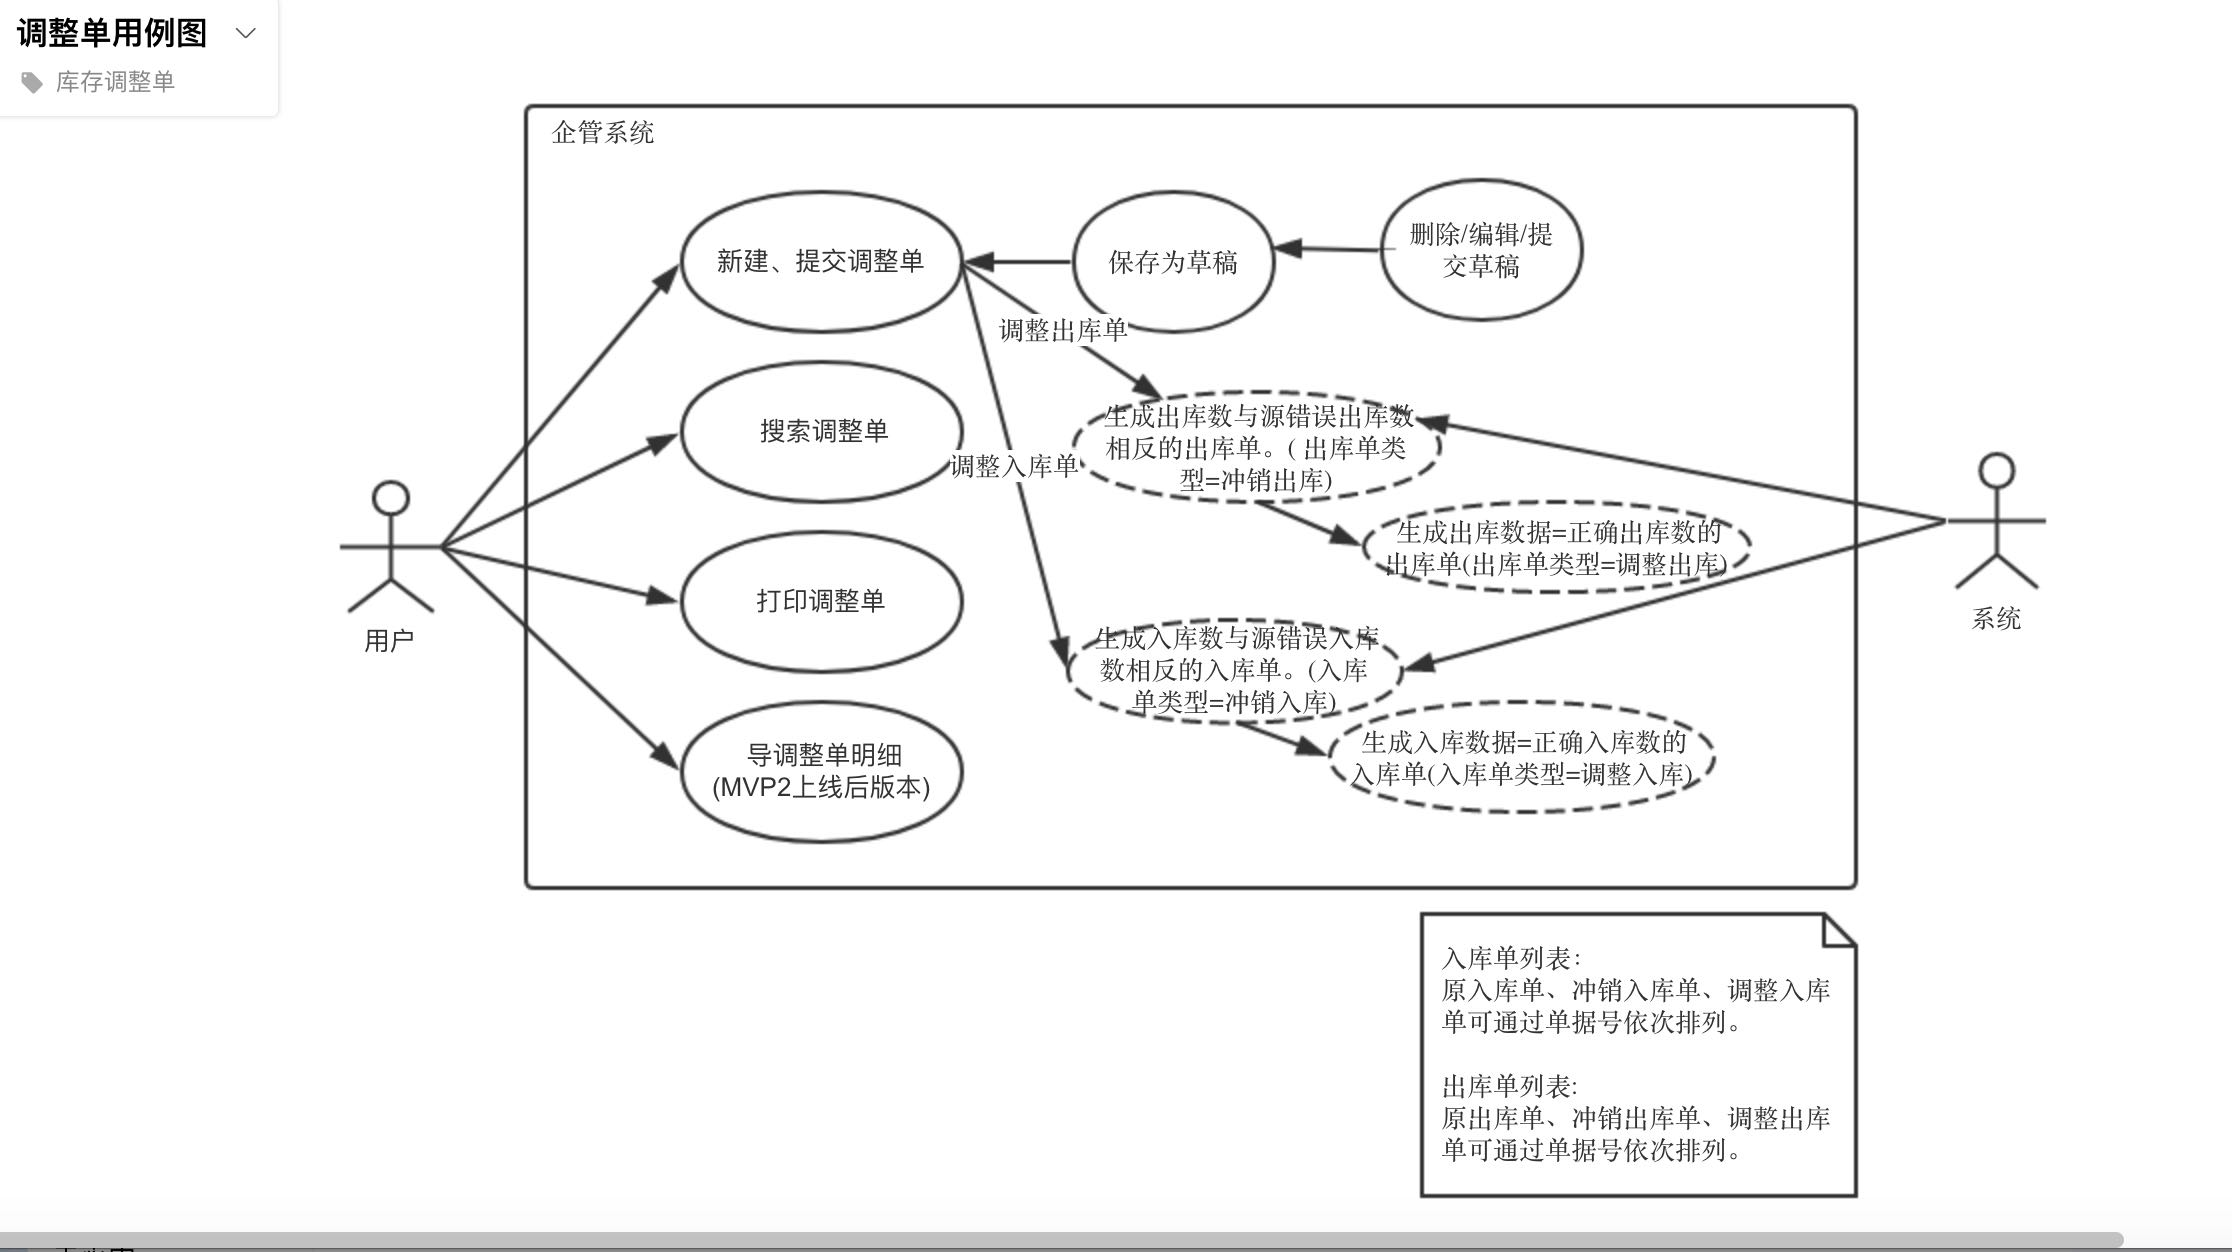
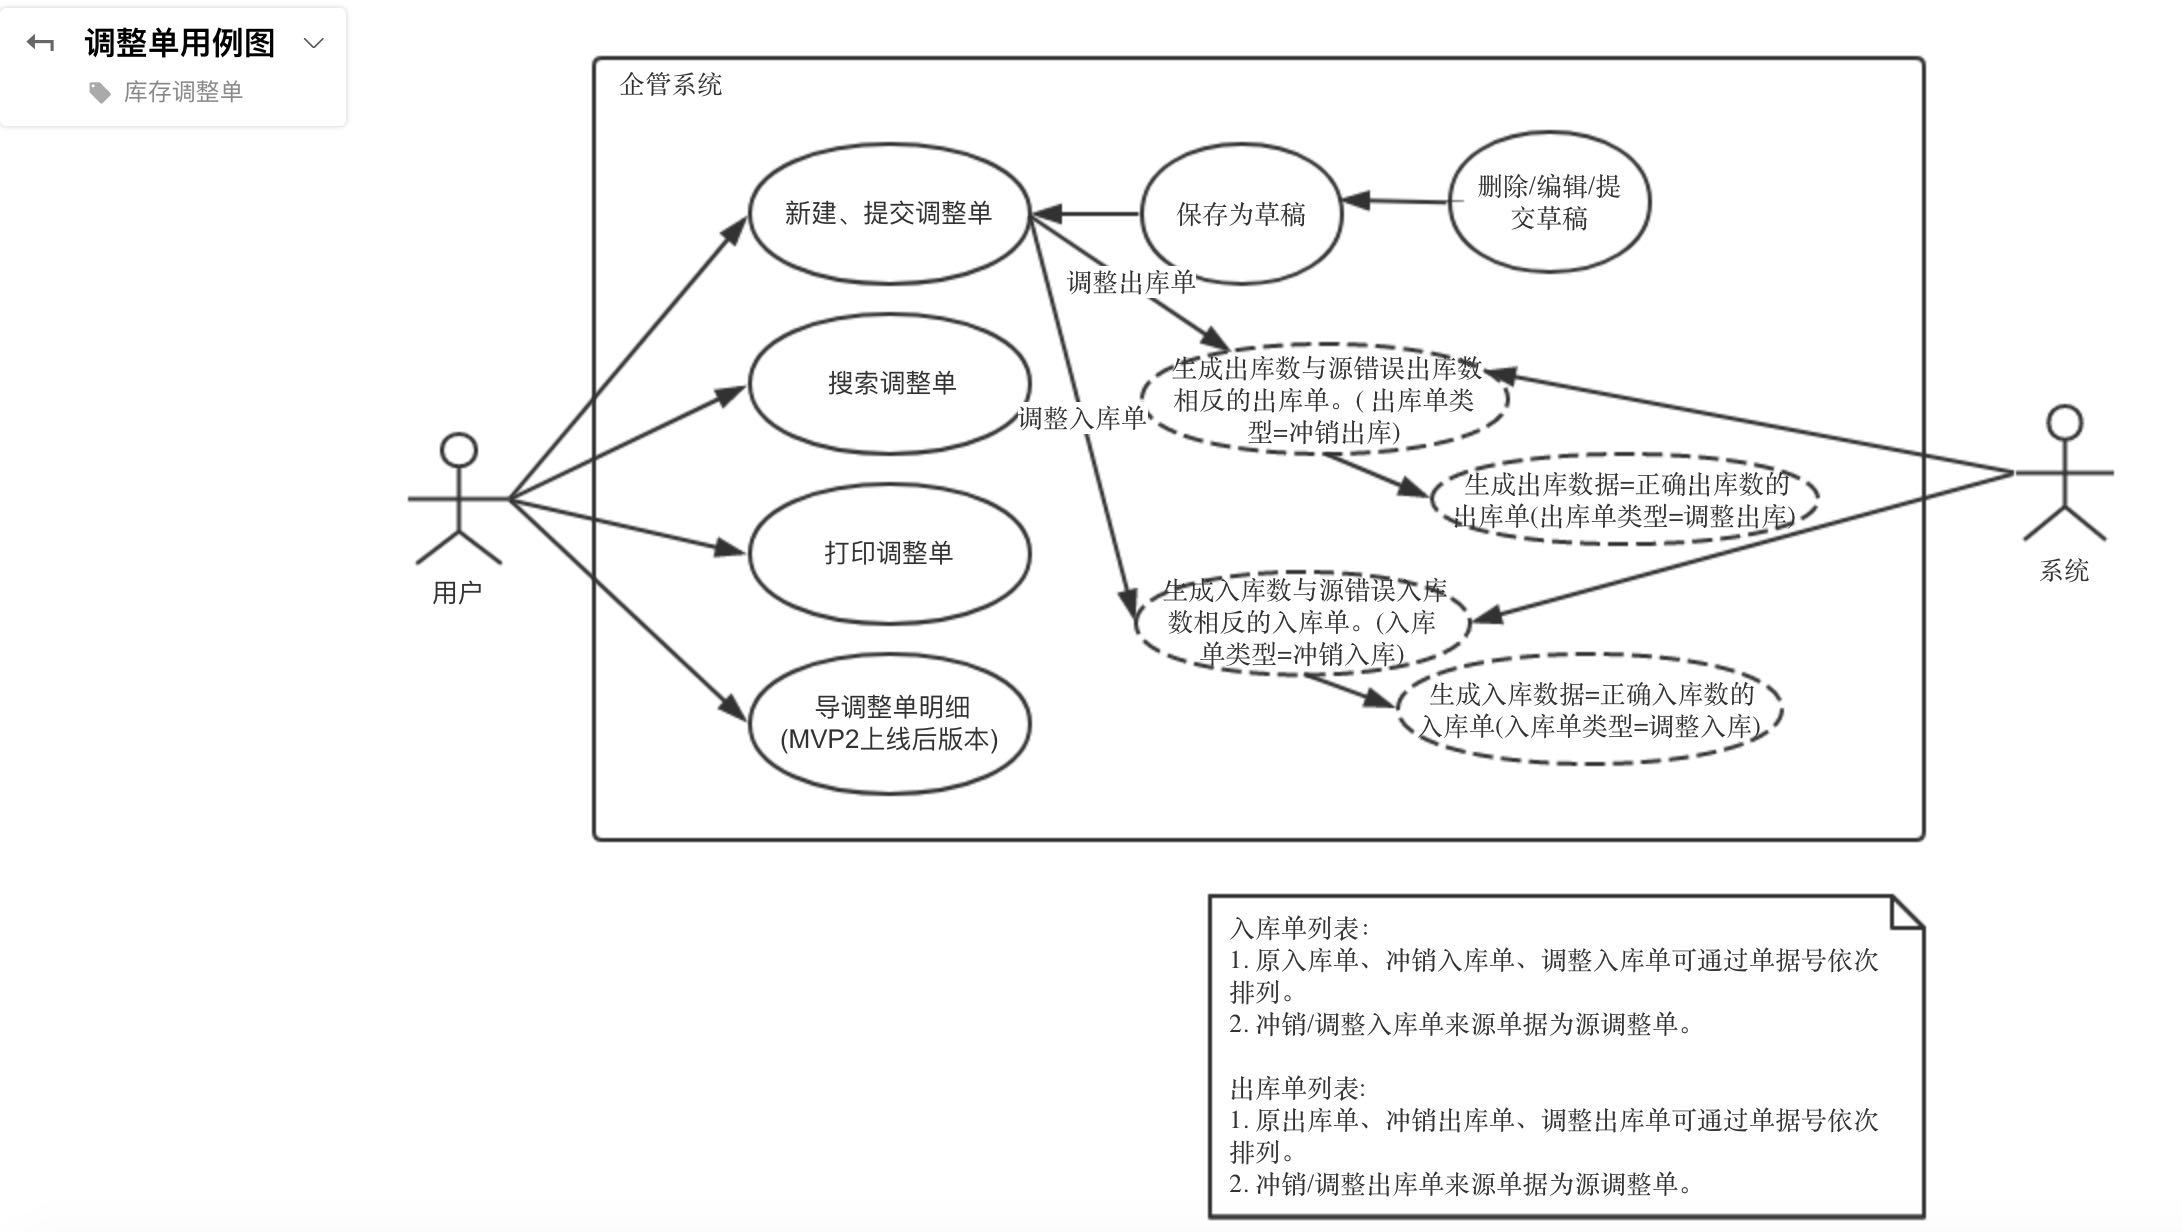
1

diff --git a/files/库存调整/data.js b/files/库存调整/data.js
@@ -2,6 +2,6 @@
 (function() {
     var _ = function() { var r={},a=arguments; for(var i=0; i<a.length; i+=2) r[a[i]]=a[i+1]; return r; }
     var _creator = function() { return _(b,c,d,e,f,g,h,g,i,[j,k,l,m,n,o],p,_(q,r,s,t,u,v,w,_(),x,_(y,z,A,B,C,_(D,E,F,G),H,null,I,B,J,B,K,L,M,null,N,O,P,Q,R,S,T,O),U,_(),V,_(),W,_(X,[_(Y,Z,ba,bb,bc,bd,s,be,bf,be,bg,bh,x,_(bi,bj,bk,_(bl,bm,bn,bo),R,bp,bq,br,y,bs,bt,_(bu,bv,bw,bx)),U,_(),by,_(),X,[_(Y,bz,ba,bA,bc,null,bB,bh,s,bC,bf,bD,bg,bh,x,_(bi,bj,bk,_(bl,bm,bn,bo),R,bp,bq,br,y,bs,bt,_(bu,bv,bw,bx)),U,_(),by,_())],bE,g),_(Y,bF,ba,bG,bc,bd,s,be,bf,be,bg,bh,x,_(bi,bj,bt,_(bu,bv,bw,bH),bk,_(bl,bm,bn,bI),R,bp,bq,bJ,y,bK),U,_(),by,_(),X,[_(Y,bL,ba,bA,bc,null,bB,bh,s,bC,bf,bD,bg,bh,x,_(bi,bj,bt,_(bu,bv,bw,bH),bk,_(bl,bm,bn,bI),R,bp,bq,bJ,y,bK),U,_(),by,_())],bE,g),_(Y,bM,ba,bA,bc,bN,s,bO,bf,bO,bg,bh,x,_(y,bP,bk,_(bl,bQ,bn,bR),bt,_(bu,bv,bw,bS)),U,_(),by,_(),X,[_(Y,bT,ba,bA,bc,null,bB,bh,s,bC,bf,bD,bg,bh,x,_(y,bP,bk,_(bl,bQ,bn,bR),bt,_(bu,bv,bw,bS)),U,_(),by,_())],bU,_(bV,bW)),_(Y,bX,ba,bG,bc,bd,s,be,bf,be,bg,bh,x,_(bi,bj,bt,_(bu,bv,bw,bY),bk,_(bl,bZ,bn,bI),R,bp,bq,bJ,y,bK),U,_(),by,_(),X,[_(Y,ca,ba,bA,bc,null,bB,bh,s,bC,bf,bD,bg,bh,x,_(bi,bj,bt,_(bu,bv,bw,bY),bk,_(bl,bZ,bn,bI),R,bp,bq,bJ,y,bK),U,_(),by,_())],bE,g),_(Y,cb,ba,bA,bc,bN,s,bO,bf,bO,bg,bh,x,_(y,bP,bk,_(bl,cc,bn,cd),bt,_(bu,ce,bw,cf)),U,_(),by,_(),X,[_(Y,cg,ba,bA,bc,null,bB,bh,s,bC,bf,bD,bg,bh,x,_(y,bP,bk,_(bl,cc,bn,cd),bt,_(bu,ce,bw,cf)),U,_(),by,_())],bU,_(bV,ch))])),ci,_(),cj,_(ck,_(cl,cm),cn,_(cl,co),cp,_(cl,cq),cr,_(cl,cs),ct,_(cl,cu),cv,_(cl,cw),cx,_(cl,cy),cz,_(cl,cA),cB,_(cl,cC),cD,_(cl,cE)));}; 
-var b="url",c="库存调整.html",d="generationDate",e=new Date(1517824661831.66),f="isCanvasEnabled",g=false,h="isAdaptiveEnabled",i="variables",j="switchMenuDWMS",k="switchMenuDWMSBasi",l="hierSate",m="hierState2",n="hierSate3",o="selectedInOrder",p="page",q="packageId",r="ab06dad24bde4134ad726033a661bf46",s="type",t="Axure:Page",u="name",v="库存调整",w="notes",x="style",y="baseStyle",z="627587b6038d43cca051c114ac41ad32",A="pageAlignment",B="near",C="fill",D="fillType",E="solid",F="color",G=0xFFFFFFFF,H="image",I="imageHorizontalAlignment",J="imageVerticalAlignment",K="imageRepeat",L="auto",M="favicon",N="sketchFactor",O="0",P="colorStyle",Q="appliedColor",R="fontName",S="Applied Font",T="borderWidth",U="adaptiveStyles",V="interactionMap",W="diagram",X="objects",Y="id",Z="365c19228ce24b5780bc9aa7dded2e2d",ba="label",bb="<h3>",bc="friendlyType",bd="Rectangle",be="vectorShape",bf="styleType",bg="visible",bh=true,bi="fontWeight",bj="650",bk="size",bl="width",bm=265,bn="height",bo=26,bp="'PingFangSC-Semibold', 'PingFang SC Semibold', 'PingFang SC'",bq="fontSize",br="24px",bs="64f9dd5379a448b0bdd83b78c9167c3f",bt="location",bu="x",bv=52,bw="y",bx=15,by="imageOverrides",bz="4f79d9dbf8f94a0a94e328dd85e51dc7",bA="",bB="isContained",bC="richTextPanel",bD="paragraph",bE="generateCompound",bF="add7aaa2dabf4b408ceb569d76722798",bG="<h4>",bH=81,bI=19,bJ="18px",bK="e44f1d516e534befb7e264888c6faf3e",bL="61b48ae7183e4fcb8b6d4639446424f4",bM="0c6eb050442c42ecb454afa6fd785a62",bN="Image",bO="imageBox",bP="75a91ee5b9d042cfa01b8d565fe289c0",bQ=592,bR=511,bS=110,bT="9e2681b47b0044ee85bcb0367e2b3fe2",bU="images",bV="normal~",bW="images/库存调整/regen/u4.png",bX="4a95bb27f3124c6496cc8c3213ad530c",bY=679,bZ=151,ca="7ecfd4cab5654faea7e4dc129790214e",cb="2bf98b622ec1424eaf18eacb5a3ba954",cc=917,cd=534,ce=-153,cf=698,cg="ef7b6f11bbe040b683edfa98a7b57356",ch="images/库存调整/regen/u8.jpg",ci="masters",cj="objectPaths",ck="365c19228ce24b5780bc9aa7dded2e2d",cl="scriptId",cm="u0",cn="4f79d9dbf8f94a0a94e328dd85e51dc7",co="u1",cp="add7aaa2dabf4b408ceb569d76722798",cq="u2",cr="61b48ae7183e4fcb8b6d4639446424f4",cs="u3",ct="0c6eb050442c42ecb454afa6fd785a62",cu="u4",cv="9e2681b47b0044ee85bcb0367e2b3fe2",cw="u5",cx="4a95bb27f3124c6496cc8c3213ad530c",cy="u6",cz="7ecfd4cab5654faea7e4dc129790214e",cA="u7",cB="2bf98b622ec1424eaf18eacb5a3ba954",cC="u8",cD="ef7b6f11bbe040b683edfa98a7b57356",cE="u9";
+var b="url",c="库存调整.html",d="generationDate",e=new Date(1517909214789.11),f="isCanvasEnabled",g=false,h="isAdaptiveEnabled",i="variables",j="switchMenuDWMS",k="switchMenuDWMSBasi",l="hierSate",m="hierState2",n="hierSate3",o="selectedInOrder",p="page",q="packageId",r="ab06dad24bde4134ad726033a661bf46",s="type",t="Axure:Page",u="name",v="库存调整",w="notes",x="style",y="baseStyle",z="627587b6038d43cca051c114ac41ad32",A="pageAlignment",B="near",C="fill",D="fillType",E="solid",F="color",G=0xFFFFFFFF,H="image",I="imageHorizontalAlignment",J="imageVerticalAlignment",K="imageRepeat",L="auto",M="favicon",N="sketchFactor",O="0",P="colorStyle",Q="appliedColor",R="fontName",S="Applied Font",T="borderWidth",U="adaptiveStyles",V="interactionMap",W="diagram",X="objects",Y="id",Z="365c19228ce24b5780bc9aa7dded2e2d",ba="label",bb="<h3>",bc="friendlyType",bd="Rectangle",be="vectorShape",bf="styleType",bg="visible",bh=true,bi="fontWeight",bj="650",bk="size",bl="width",bm=265,bn="height",bo=26,bp="'PingFangSC-Semibold', 'PingFang SC Semibold', 'PingFang SC'",bq="fontSize",br="24px",bs="64f9dd5379a448b0bdd83b78c9167c3f",bt="location",bu="x",bv=52,bw="y",bx=15,by="imageOverrides",bz="4f79d9dbf8f94a0a94e328dd85e51dc7",bA="",bB="isContained",bC="richTextPanel",bD="paragraph",bE="generateCompound",bF="add7aaa2dabf4b408ceb569d76722798",bG="<h4>",bH=81,bI=19,bJ="18px",bK="e44f1d516e534befb7e264888c6faf3e",bL="61b48ae7183e4fcb8b6d4639446424f4",bM="0c6eb050442c42ecb454afa6fd785a62",bN="Image",bO="imageBox",bP="75a91ee5b9d042cfa01b8d565fe289c0",bQ=592,bR=511,bS=110,bT="9e2681b47b0044ee85bcb0367e2b3fe2",bU="images",bV="normal~",bW="images/库存调整/regen/u4.png",bX="4a95bb27f3124c6496cc8c3213ad530c",bY=679,bZ=151,ca="7ecfd4cab5654faea7e4dc129790214e",cb="c5ea400aa4744256b97c51d4b33f38e1",cc=1091,cd=616,ce=-206,cf=708,cg="4ef26c587a894a7dbebda93d46962628",ch="images/库存调整/regen/u8.jpg",ci="masters",cj="objectPaths",ck="365c19228ce24b5780bc9aa7dded2e2d",cl="scriptId",cm="u0",cn="4f79d9dbf8f94a0a94e328dd85e51dc7",co="u1",cp="add7aaa2dabf4b408ceb569d76722798",cq="u2",cr="61b48ae7183e4fcb8b6d4639446424f4",cs="u3",ct="0c6eb050442c42ecb454afa6fd785a62",cu="u4",cv="9e2681b47b0044ee85bcb0367e2b3fe2",cw="u5",cx="4a95bb27f3124c6496cc8c3213ad530c",cy="u6",cz="7ecfd4cab5654faea7e4dc129790214e",cA="u7",cB="c5ea400aa4744256b97c51d4b33f38e1",cC="u8",cD="4ef26c587a894a7dbebda93d46962628",cE="u9";
 return _creator();
 })());

diff --git a/files/库存调整/styles.css b/files/库存调整/styles.css
@@ -3,7 +3,7 @@
   background-image:none;
   position:static;
   left:auto;
-  width:611px;
+  width:679px;
   margin-left:0;
   margin-right:0;
   text-align:left;
@@ -146,21 +146,21 @@
   position:absolute;
   left:0px;
   top:0px;
-  width:917px;
-  height:534px;
+  width:1091px;
+  height:616px;
 }
 #u8 {
   position:absolute;
-  left:-153px;
-  top:698px;
-  width:917px;
-  height:534px;
+  left:-206px;
+  top:708px;
+  width:1091px;
+  height:616px;
 }
 #u9 {
   position:absolute;
   left:2px;
-  top:259px;
-  width:913px;
+  top:300px;
+  width:1087px;
   visibility:hidden;
   word-wrap:break-word;
 }
